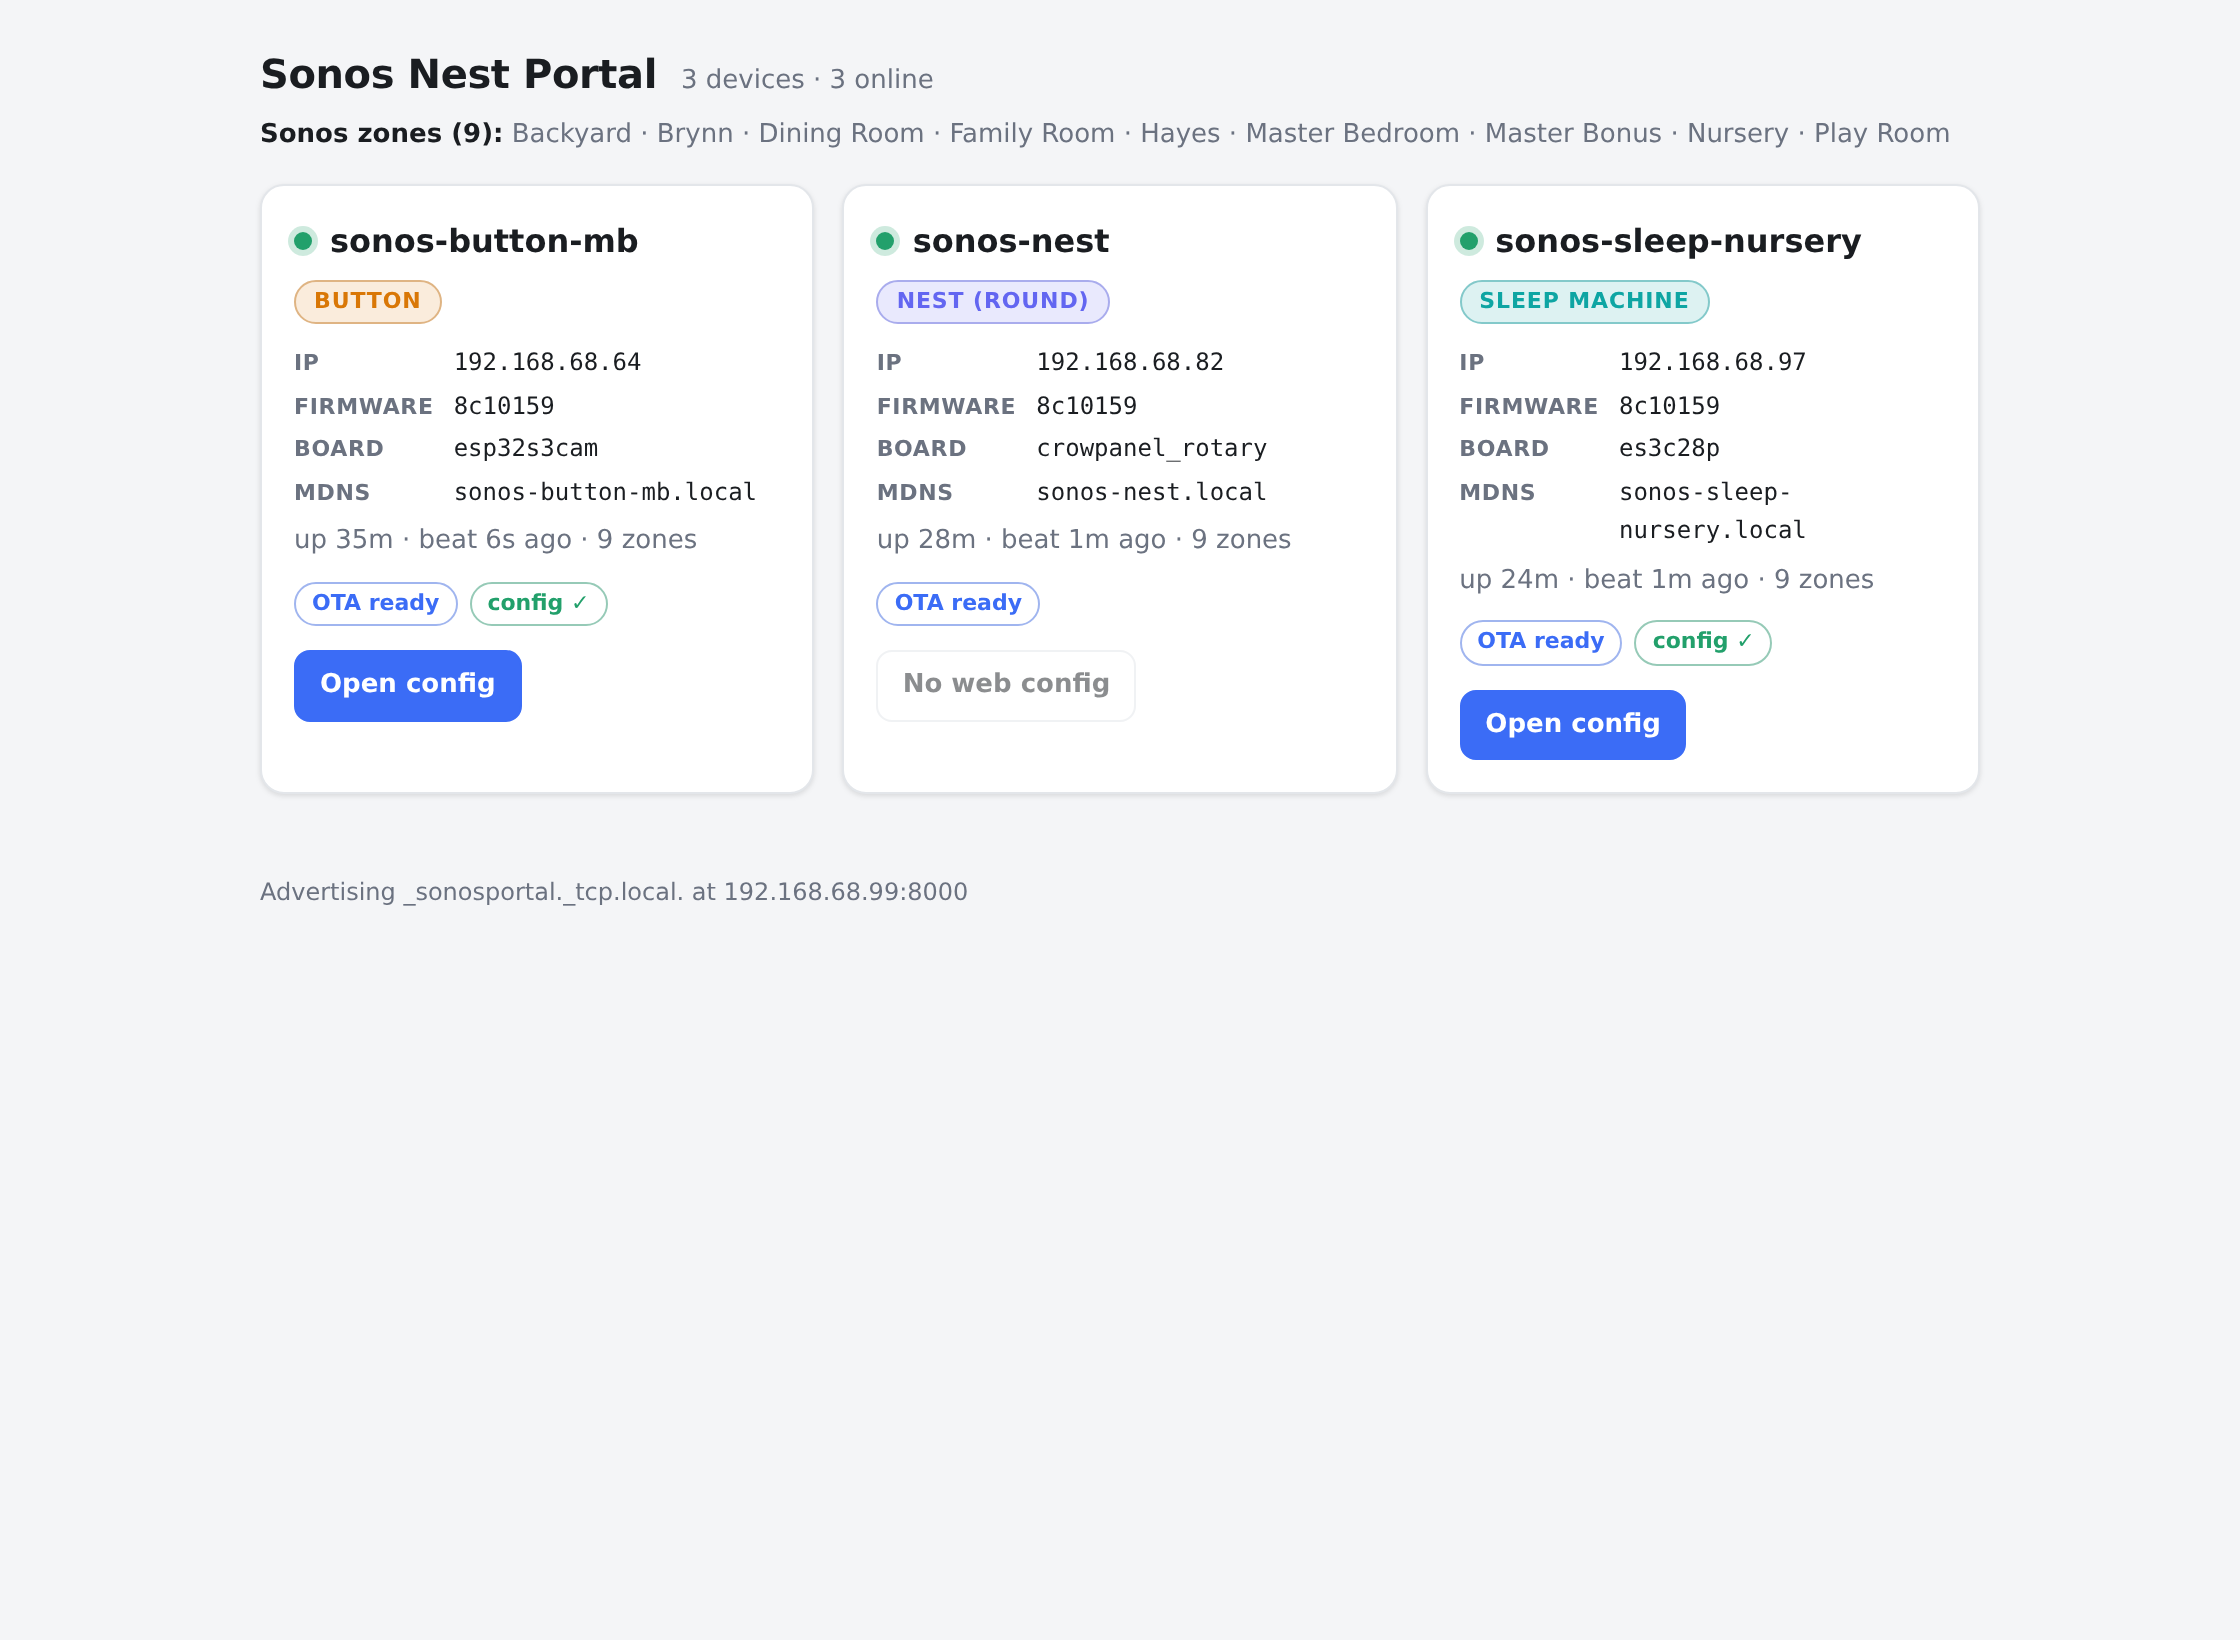
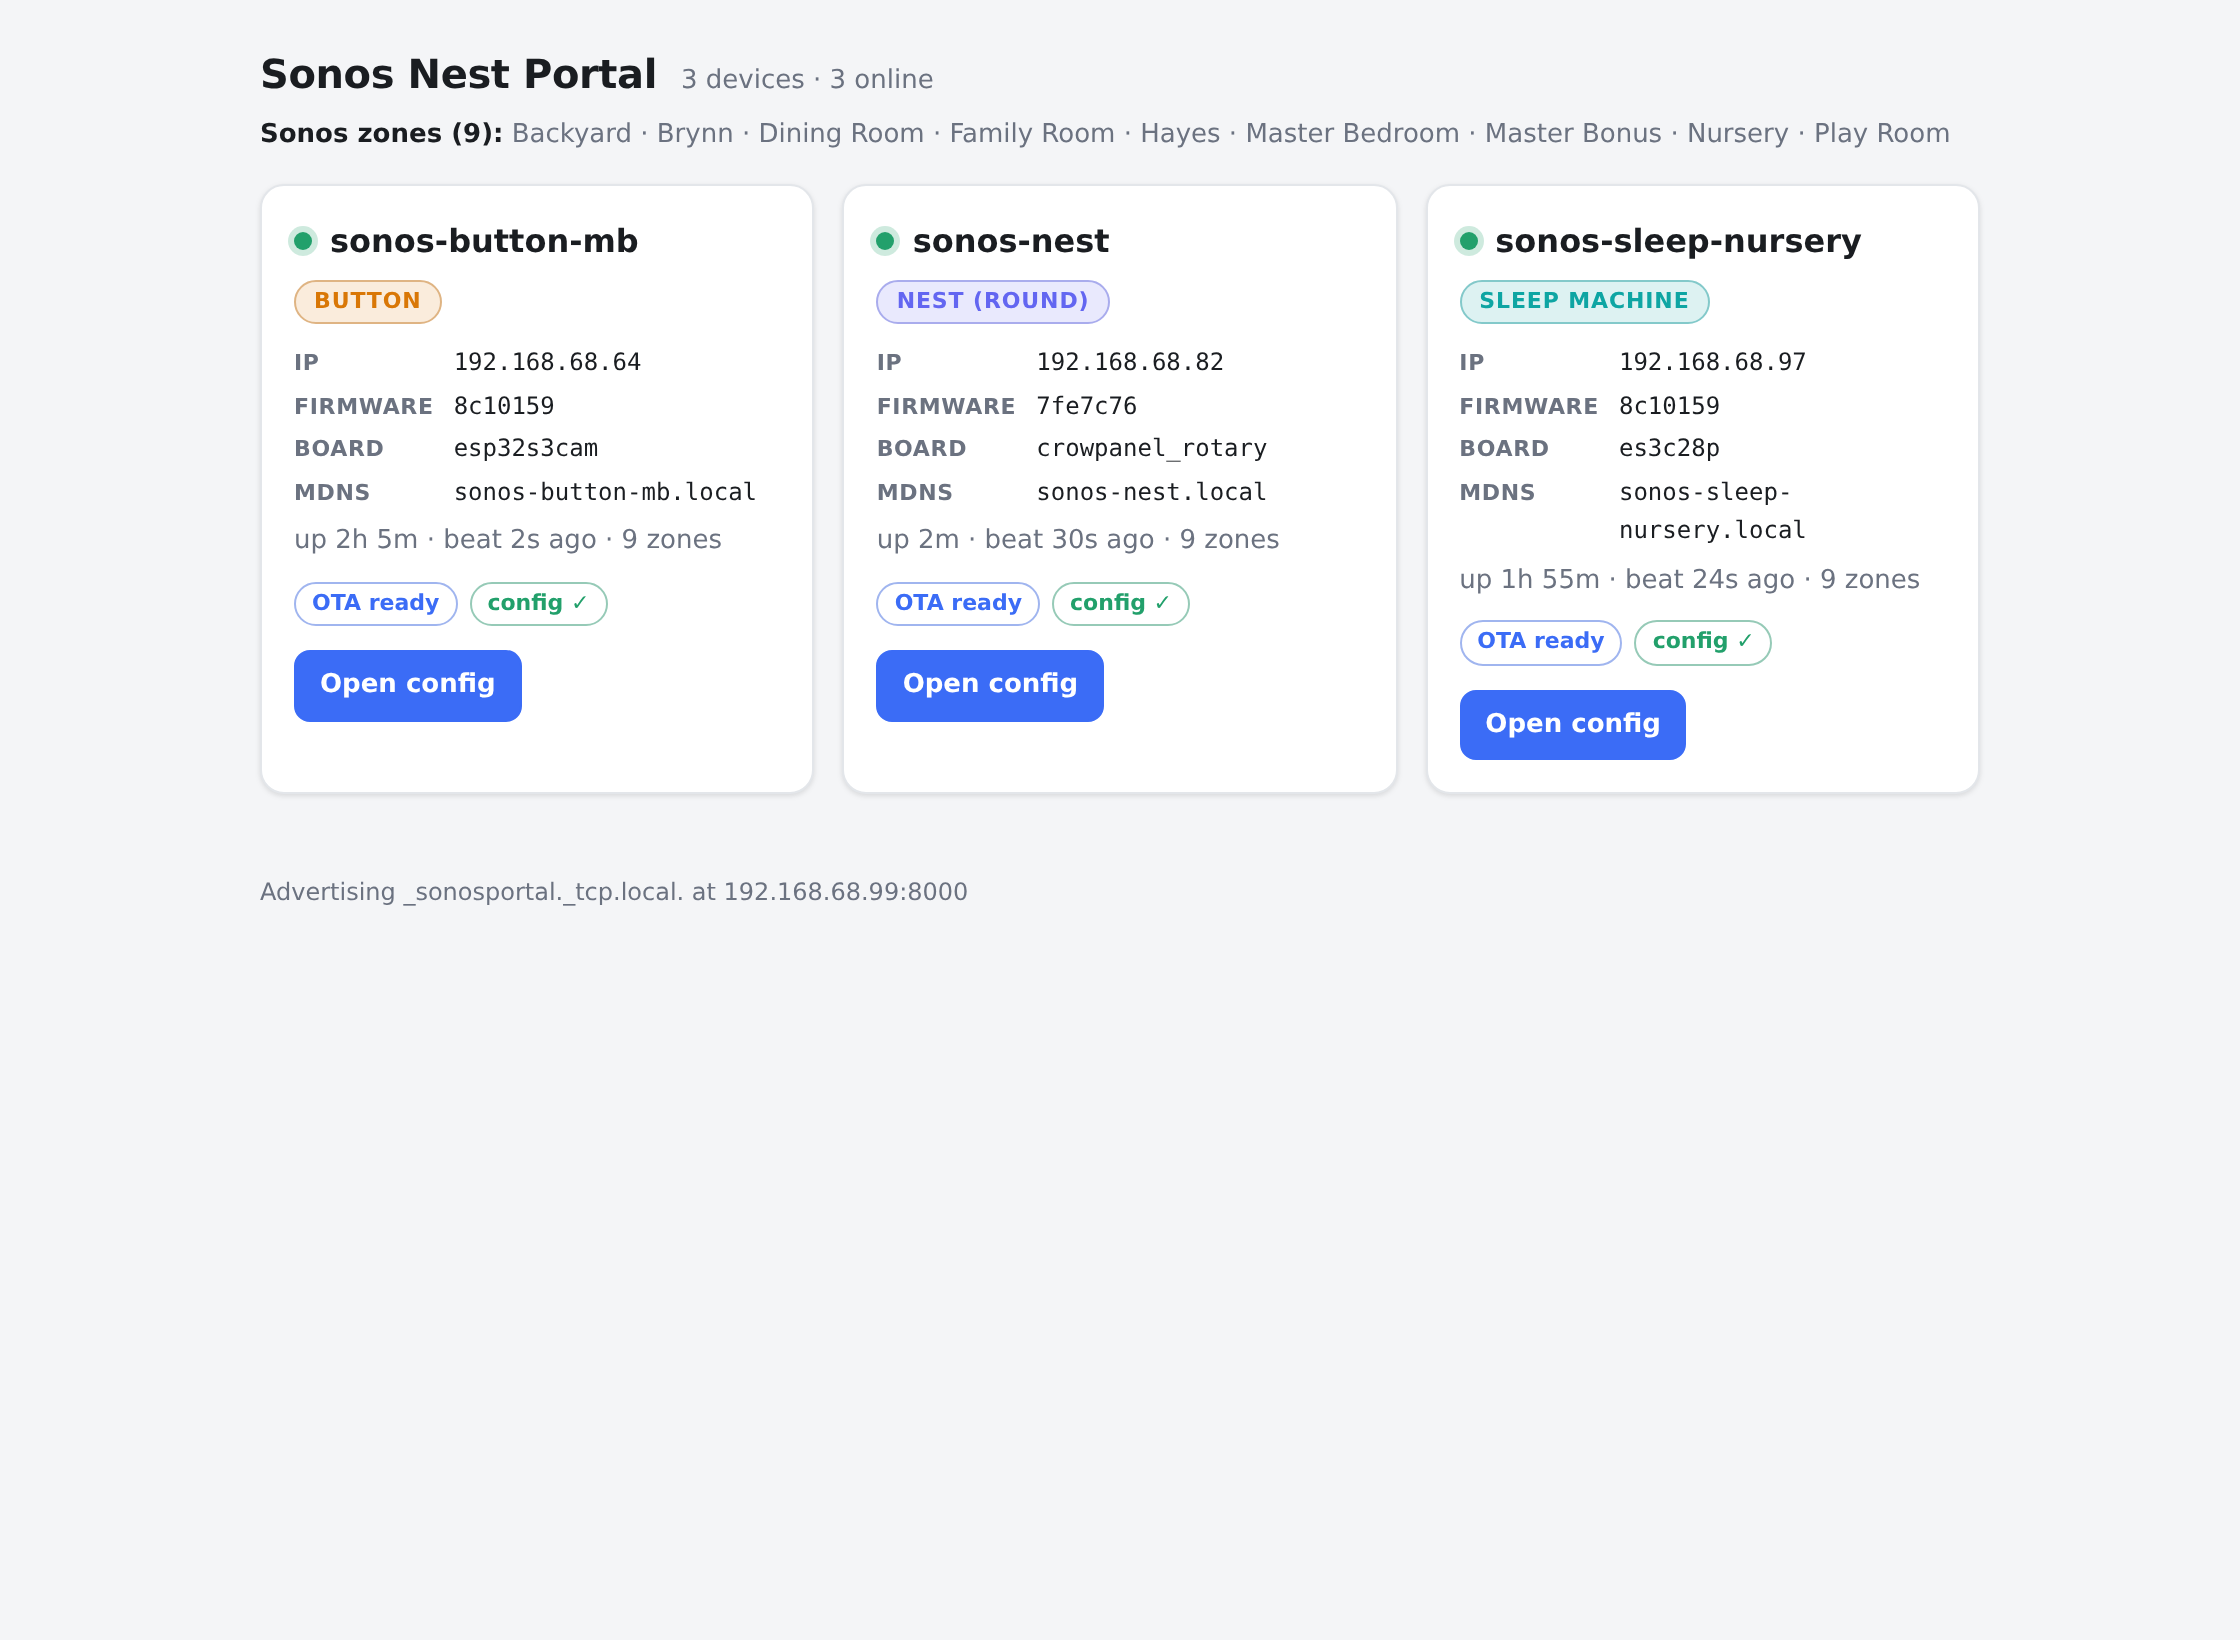
docs: nest now has web config — update READMEs, guide, and screenshot
The nest is no longer server-less, so: drop the "nest has no web server"
framing in the root + portal READMEs, add a Web config section to the nest
guide, fix the registrationJson comment (configUrl is boardConfigUrl now),
and regenerate the dashboard screenshot (nest tile now shows Open config).

diff --git a/src/core/webconfig.h b/src/core/webconfig.h
@@ -23,8 +23,8 @@ String webConfigJson();
 // The device-identity payload for portal self-registration (registrar.cpp / plans/05). A focused
 // sibling of webConfigJson() — no health/tracks/playlists, just who-and-where:
 //   {"deviceName","mdnsName","ip","unit","board","fwVersion","configUrl","zones":[{name,ip}...]}
-// unit/board are compile-time (the env's UNIT_*/HEADLESS macro); configUrl is localManagerUrl()
-// (null on the nest, which has no web server — the portal shows it present, config disabled).
+// unit/board are compile-time (the env's UNIT_*/HEADLESS macro); configUrl is boardConfigUrl()
+// (the device's web config page; null only before WiFi is up).
 String registrationJson();
 
 // Apply one field: "sleepTrack" | "wakeTrack" | "room" | "ring" | "playlist" | "volume".

diff --git a/docs/sonos-nest.md b/docs/sonos-nest.md
@@ -194,11 +194,20 @@ If you're working in this repo with Claude Code, the **`/ota` skill** does all o
 
 ### Brightness
 
-Menu → Settings, then twist. Saved automatically.
+Menu → Settings, then twist. Saved automatically. Also settable remotely from the web config
+page (below).
 
 ### Changing rooms
 
-Menu → Rooms. Persisted across reboots.
+Menu → Rooms. Persisted across reboots. Also settable from the web config page (below).
+
+### Web config (browser)
+
+The nest serves a small config page at **`http://<device-ip>:8080`** — Sonos room, screen
+brightness, and device name, from any browser on the LAN. It's the same settings the on-device
+Settings screen changes; changes apply live (brightness) or on the next reboot (device name).
+If you run the [sonos-portal](../sonos-portal/) dashboard, its **Open config** button links
+straight here.
 
 ### Troubleshooting
 

diff --git a/README.md b/README.md
@@ -35,9 +35,8 @@ It's optional; the units work fine without it.
 
 - **Discovery is automatic.** The portal advertises `_sonosportal._tcp` over mDNS; each device
   finds it and registers at boot, then heartbeats. Self-registration is built into the shared
-  **core** (`core/net/registrar.*`), so *every* unit ships it — including the round nest, which
-  has no web server of its own but still appears on the dashboard (registration is an outbound
-  POST). No per-device configuration.
+  **core** (`core/net/registrar.*`), so *every* unit ships it (registration is an outbound POST,
+  independent of whether the unit serves a web page). No per-device configuration.
 - **Requires the same LAN.** mDNS is multicast, so the portal must run on the same L2 network as
   your devices — host networking on a real Linux box, not a NAT'd VM or Docker Desktop.
 

diff --git a/sonos-portal/README.md b/sonos-portal/README.md
@@ -1,9 +1,9 @@
 # sonos-portal
 
 A small **local** dashboard that every [sonos-nest](../) device self-registers with. One page
-listing all your ESP32 Sonos controllers on the LAN, each with a single click into its web config
-— including the round **nest**, which has no web server of its own but still appears (config
-disabled) because registration is an outbound POST.
+listing all your ESP32 Sonos controllers on the LAN, each with a single click into its web config.
+Registration is an outbound POST, so a device appears even if it serves no web page of its own
+(the tile just shows config disabled).
 
 One FastAPI app, packaged two ways from **one image**: standalone Docker, or a Home Assistant
 add-on (a container + a thin manifest). ~95% shared code; the only HA-specific accommodation is
